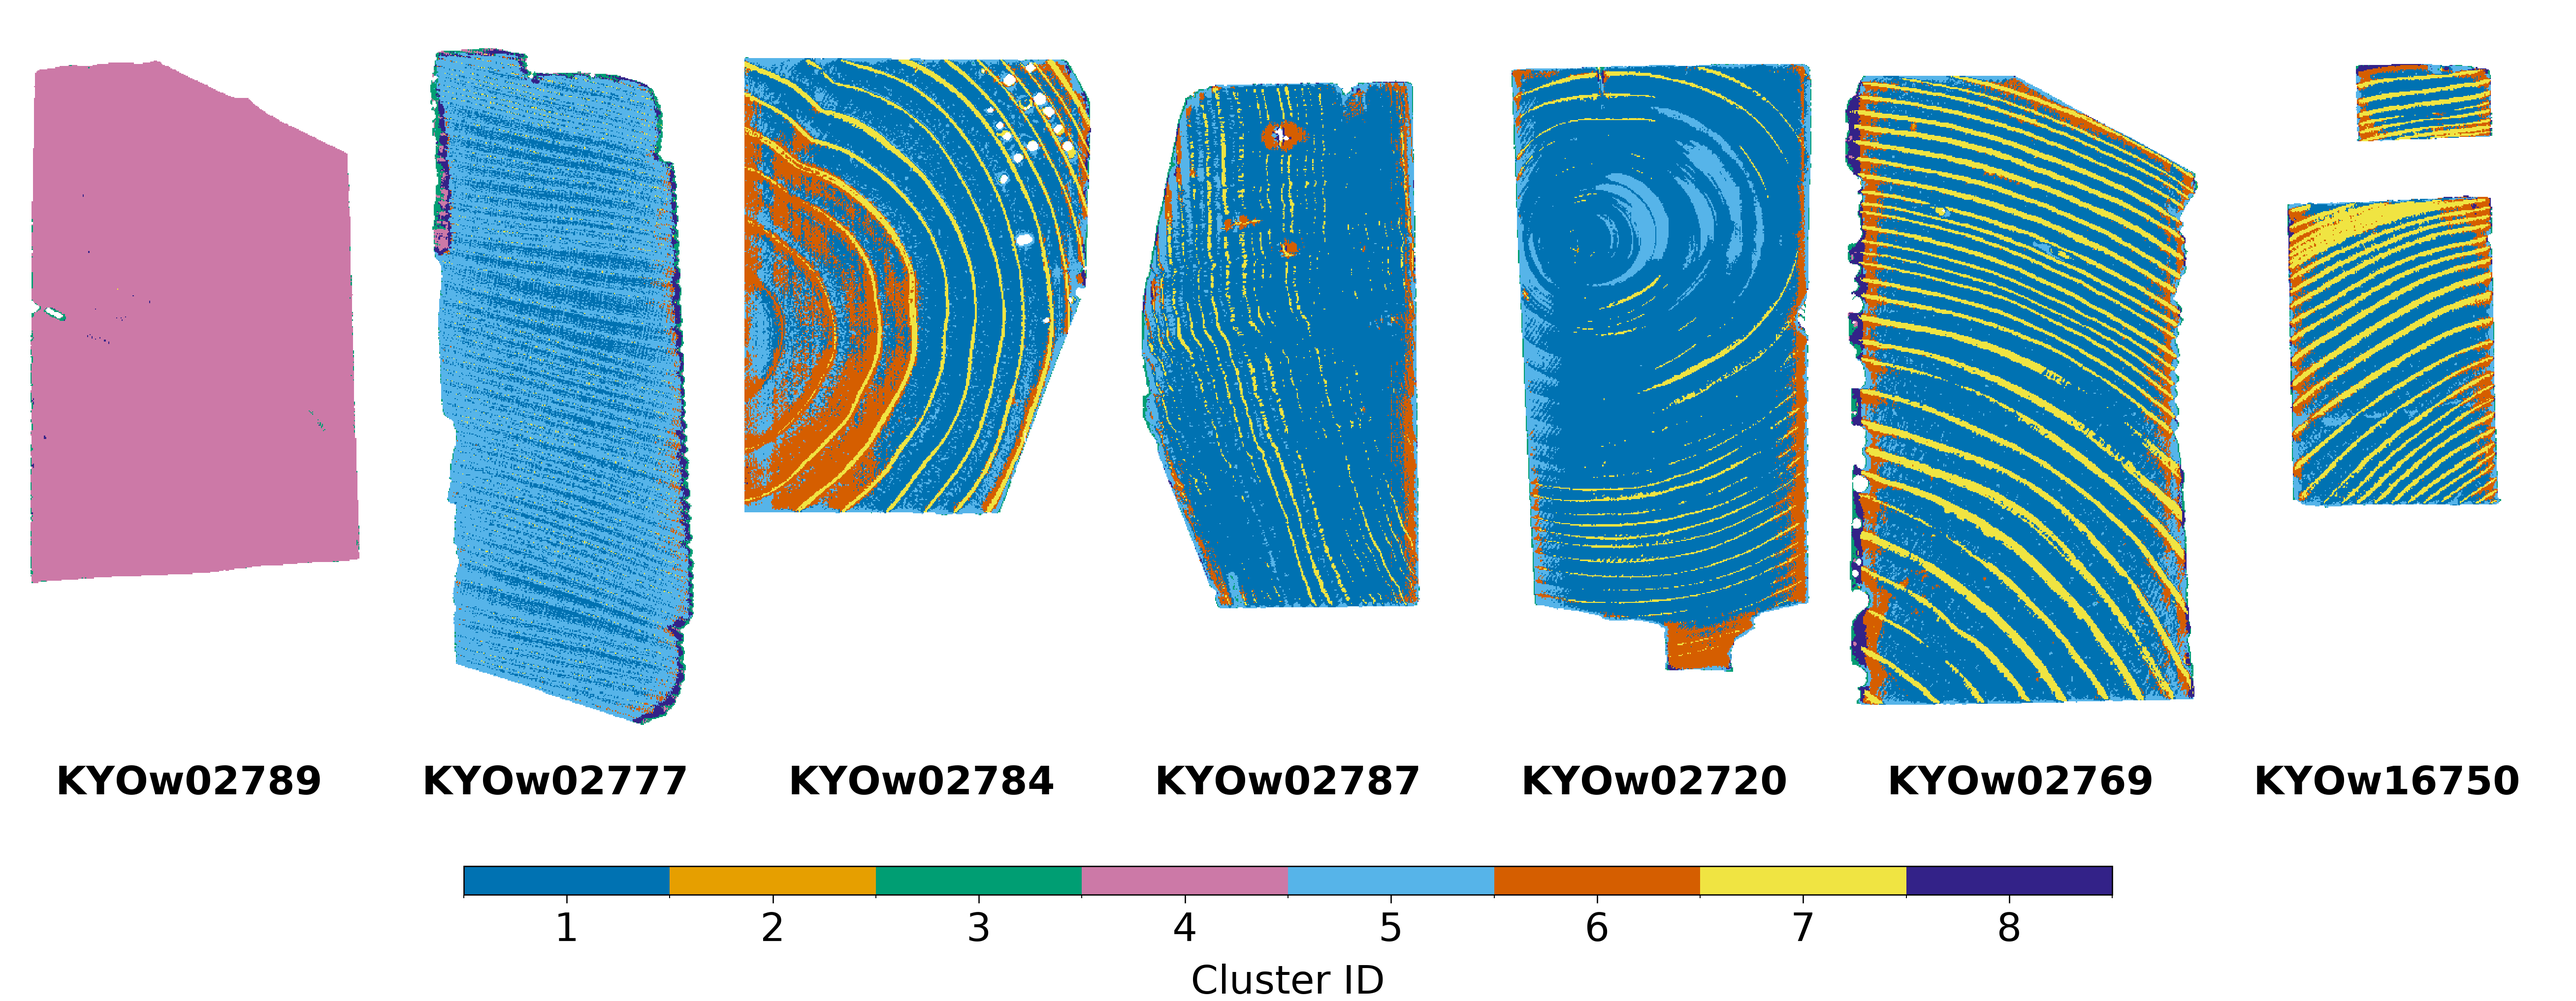
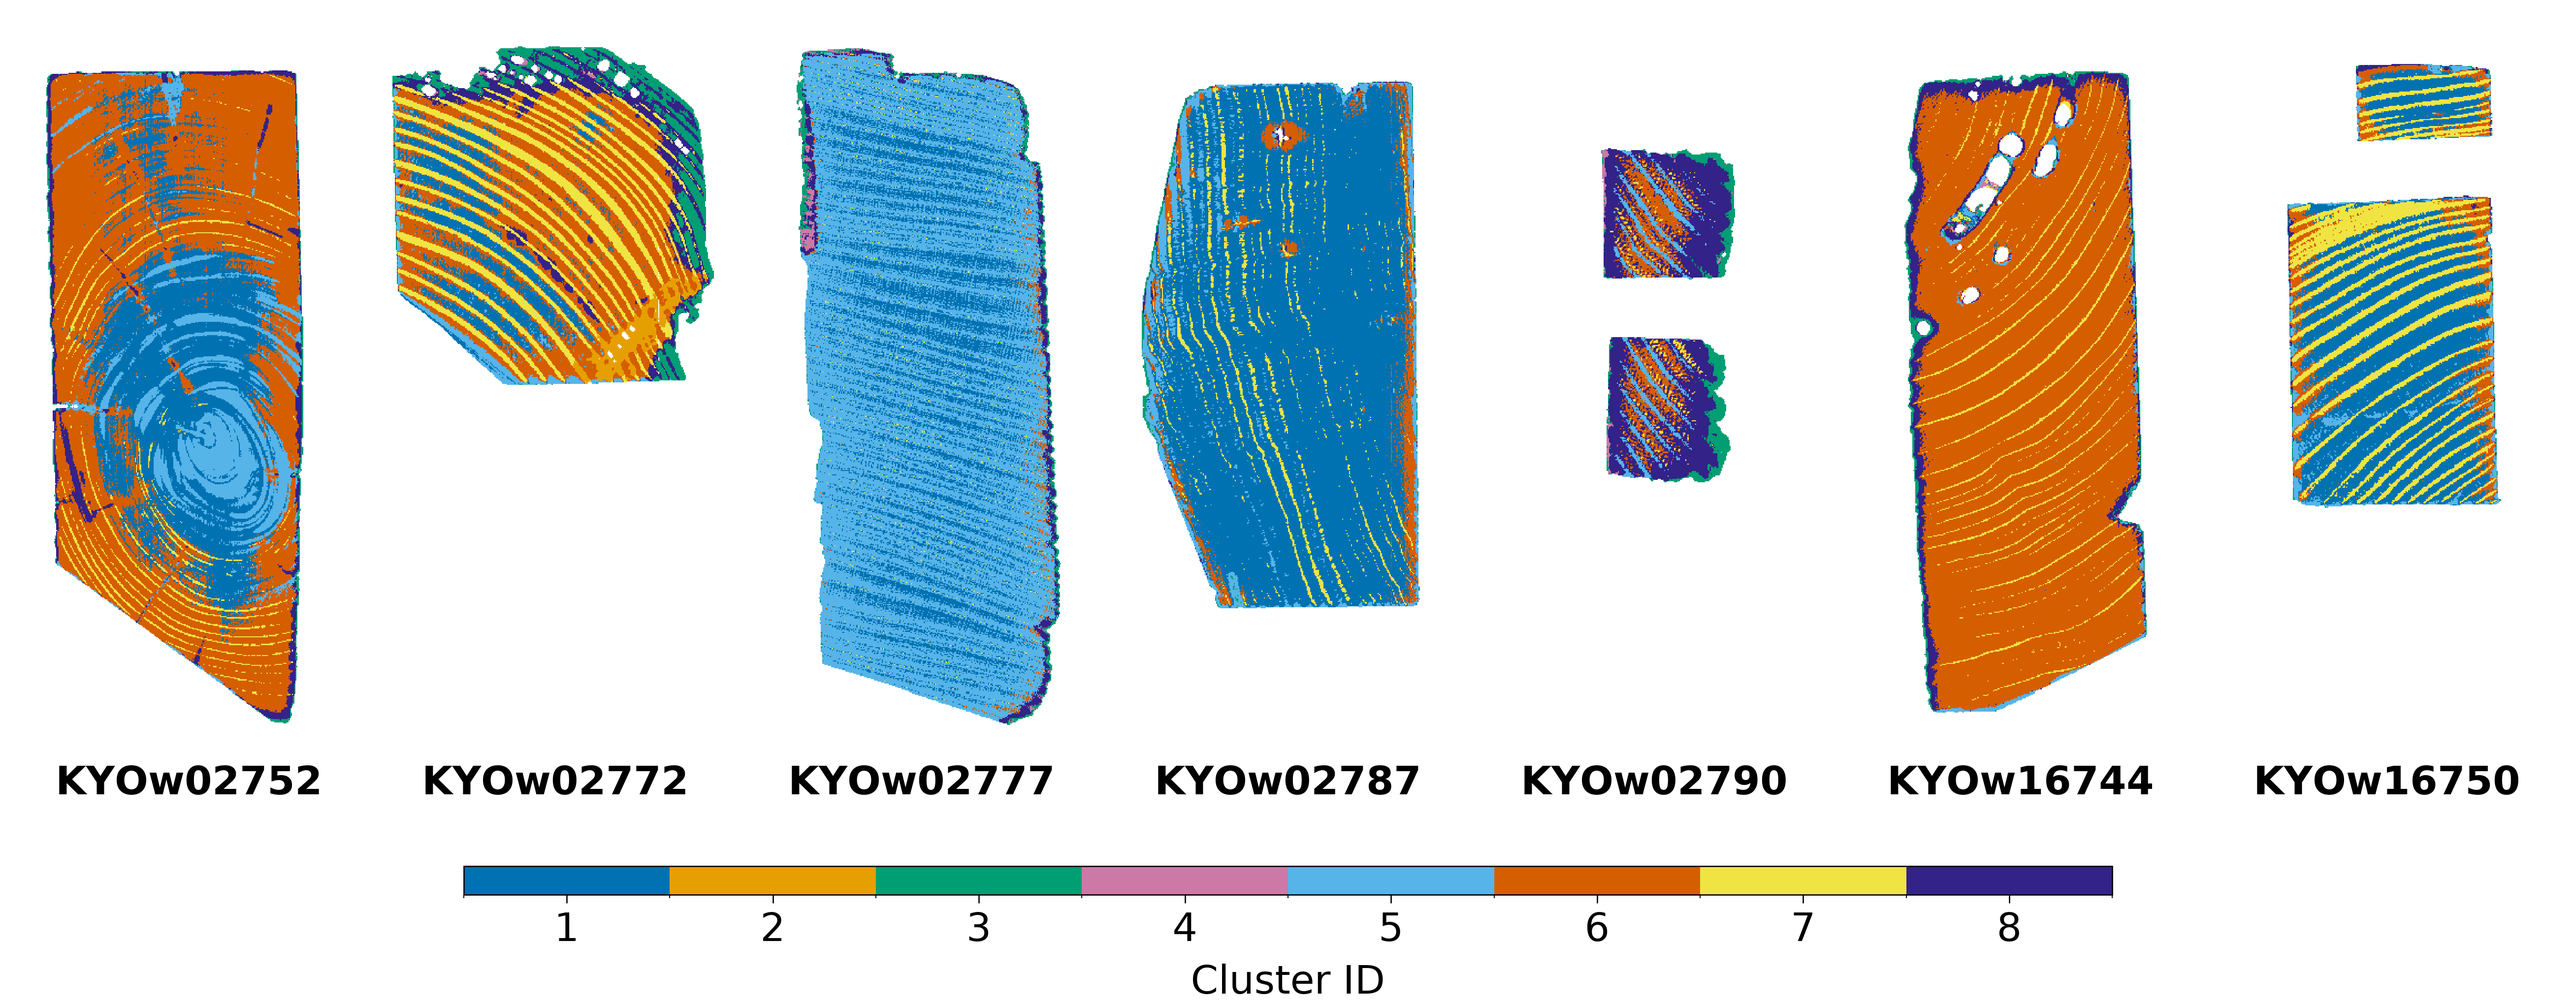
Change in Representative Sample

diff --git a/scripts/preprocess/create_sample_overviews.py b/scripts/preprocess/create_sample_overviews.py
@@ -49,7 +49,15 @@ def parse_args() -> argparse.Namespace:
     parser.add_argument(
         "--output-dir", type=Path,
         default=root / "outputs/sample_overviews",
-        help="New directory for the four overview PNGs; must not already exist.",
+        help="Overview PNG directory; must be new unless --overwrite is supplied.",
+    )
+    parser.add_argument(
+        "--representatives-only", action="store_true",
+        help="Render only the two representative 1x7 PNGs, leaving all-sample grids untouched.",
+    )
+    parser.add_argument(
+        "--overwrite", action="store_true",
+        help="Allow an existing output directory and replace the selected overview PNGs.",
     )
     return parser.parse_args()
 
@@ -123,7 +131,7 @@ def paste_colorbar(canvas: Image.Image, scale: ReflectanceScale) -> None:
 
 def render_overview(
     sources: dict[str, Path], output: Path, *, sample_ids: list[str], image_height: int,
-    reflectance_scale: ReflectanceScale | None = None,
+    reflectance_scale: ReflectanceScale | None = None, overwrite: bool = False,
 ) -> None:
     """Lay out full source images in the supplied order with large IDs underneath."""
     if len(sample_ids) not in (GRID_SIZE, GRID_SIZE**2) or len(set(sample_ids)) != len(sample_ids):
@@ -163,15 +171,15 @@ def render_overview(
             )
         if reflectance_scale is not None:
             paste_colorbar(canvas, reflectance_scale)
-        # Exclusive creation prevents accidental replacement of an existing artifact.
-        with output.open("xb") as handle:
+        # Existing artifacts are replaced only when explicitly requested.
+        with output.open("wb" if overwrite else "xb") as handle:
             canvas.save(handle, format="PNG", dpi=(DPI, DPI))
     print(f"{output}: {size[0]} x {size[1]} pixels; {len(sample_ids)} samples", flush=True)
 
 
 def main() -> int:
     args = parse_args()
-    if args.output_dir.exists():
+    if args.output_dir.exists() and not args.overwrite:
         raise FileExistsError(f"Output directory already exists: {args.output_dir}")
     reflectance, raw = paired_sources(args.reflectance_dir, args.raw_dir)
     scale = load_reflectance_scale(args.reflectance_dir)
@@ -180,17 +188,19 @@ def main() -> int:
     if missing:
         raise ValueError(f"Missing fixed representative samples: {sorted(missing)}")
     height = image_box_height((reflectance, raw))
-    args.output_dir.mkdir(parents=True, exist_ok=False)
-    for suffix, sample_ids in (
-        ("7x7", sorted(reflectance)), ("representatives_1x7", representatives),
-    ):
+    args.output_dir.mkdir(parents=True, exist_ok=args.overwrite)
+    selections = [("representatives_1x7", representatives)]
+    if not args.representatives_only:
+        selections.insert(0, ("7x7", sorted(reflectance)))
+    for suffix, sample_ids in selections:
         render_overview(
             reflectance, args.output_dir / f"reflectance_l2_norm_{suffix}.png",
             sample_ids=sample_ids, image_height=height, reflectance_scale=scale,
+            overwrite=args.overwrite,
         )
         render_overview(
             raw, args.output_dir / f"raw_bmp_{suffix}.png",
-            sample_ids=sample_ids, image_height=height,
+            sample_ids=sample_ids, image_height=height, overwrite=args.overwrite,
         )
     return 0
 

diff --git a/src/wood_degradation_map/experiments/oof_sanity.py b/src/wood_degradation_map/experiments/oof_sanity.py
@@ -21,9 +21,10 @@ from .manifests import _digest, _read_json
 CONDITIONS = ("B0", "B1")
 DISPLAY_K = 8
 DISPLAY_REPEAT = 1
+# Visually selected by the user on 2026-09-21; ascending sample number.
 REPRESENTATIVES = (
-    ("クリ", "KYOw02789"), ("ケヤキ", "KYOw02777"), ("スギ", "KYOw02784"),
-    ("ツガ", "KYOw02787"), ("ヒノキ", "KYOw02720"), ("マツ", "KYOw02769"),
+    ("ヒノキ", "KYOw02752"), ("マツ", "KYOw02772"), ("ケヤキ", "KYOw02777"),
+    ("ツガ", "KYOw02787"), ("クリ", "KYOw02790"), ("スギ", "KYOw16744"),
     ("モミ", "KYOw16750"),
 )
 LABEL_COLORS = (

diff --git a/docs/design/visualization_and_interpretation.md b/docs/design/visualization_and_interpretation.md
@@ -290,27 +290,33 @@ SGを適用する対象は疑似吸光度の二次微分とし、反射率・SNV
 
 全49試料について、Cosine-KMeansの5条件のマップを保存する。
 良好に見える例だけを研究全体の根拠にしない。
-本文用の代表例は、結果を見る前に選択基準と試料IDを固定する。結果を見て追加した特徴例や
-失敗例は、そのように明記する。探索的な例の追加で主条件、K、seedまたは評価対象を入れ替えない。
+代表例の選択基準・試料ID・変更時点を記録し、結果を見て選んだ特徴例や失敗例は、そのように明記する。
+探索的な例の変更で主条件、K、seedまたは評価対象を入れ替えない。
 
-各樹種で保存有効画素数が最大の試料を本文代表例とし、次の7試料を使用する。
-選択対象は`production_v1`の採用49試料に限定する。樹種は`data/metadata/古材メタデータ.csv`の
-`樹種名`をそのまま使用し、「大きい」は前処理後の保存有効画素数（`saved_pixel_count`）で扱う。
-各樹種内でこの画素数が最大の1試料を選ぶ。raw画像の高さ・面積、metadataの部材寸法、
-クラスタリング結果・評価値による選択ではない。対象49試料には同率最大・樹種欠損・IDの重複対応はない。
+2026-09-21にユーザー指定で代表7試料を変更した。従来は各樹種で保存有効画素数が最大の試料を
+選んでいたが、現在は各樹種から多様な化学状態が見られそうなものをユーザーが目視で選択した。
+この選択は結果確認後の探索的な表示例であり、化学状態の多様性を検証済みという意味ではない。
+選択対象は`production_v1`の採用49試料に限定し、次の7試料を**試料番号の昇順**で使用する。
+樹種は`data/metadata/古材メタデータ.csv`の`樹種名`に対応する。保存有効画素数は参考値として示す。
 
 | 樹種名 | 採用試料内の件数 | 本文代表試料 | 保存有効画素数 |
 | --- | ---: | --- | ---: |
-| クリ | 3 | KYOw02789 | 125,946 |
+| ヒノキ | 14 | KYOw02752 | 117,193 |
+| マツ | 23 | KYOw02772 | 73,211 |
 | ケヤキ | 4 | KYOw02777 | 121,687 |
-| スギ | 3 | KYOw02784 | 117,549 |
 | ツガ | 1 | KYOw02787 | 106,684 |
-| ヒノキ | 14 | KYOw02720 | 131,174 |
-| マツ | 23 | KYOw02769 | 161,734 |
+| クリ | 3 | KYOw02790 | 26,249 |
+| スギ | 3 | KYOw16744 | 108,863 |
 | モミ | 1 | KYOw16750 | 58,739 |
 
+旧指定からはヒノキ`KYOw02720 → KYOw02752`、マツ`KYOw02769 → KYOw02772`、
+クリ`KYOw02789 → KYOw02790`、スギ`KYOw02784 → KYOw16744`を変更し、残る3試料は継続した。
+列順も従来の樹種順から上表の試料番号順へ変更した。
+raw BMP・反射率L2 normの代表1×7、全体fitの条件別代表1×7と5条件×7試料図は同じ指定を共有する。
+OOF sanityも共通定義を参照するため、次回生成からこの試料・順序を使用する。
+
 画素数の出典は`outputs/experiments/preflight_v1/manifests/inputs.json`。
-選択時のSHA-256は次のとおり。
+旧選択時に記録したSHA-256は次のとおり（今回再計算した値ではない）。
 
[2 lines of base64/hex data omitted]

diff --git a/docs/experiment_runbook.md b/docs/experiment_runbook.md
@@ -532,6 +532,43 @@ if ($LASTEXITCODE -ne 0) { throw "Global visualization check failed" }
 独立管理の`pca-latent-2d/`は引き継ぎ、PCA座標・NN・クラスタリング成果物は置換対象に含めない。
 クラスタリングの`run`は既存成果物を上書きしない。
 
+<a id="representative-sample-update"></a>
+
+##### 代表7試料の変更を既存図へ反映する
+
+2026-09-21に代表試料を、各樹種で多様な化学状態が見られそうなものを目視で選んだ7試料へ変更した。
+試料番号順に`KYOw02752`（ヒノキ）、`KYOw02772`（マツ）、`KYOw02777`（ケヤキ）、
+`KYOw02787`（ツガ）、`KYOw02790`（クリ）、`KYOw16744`（スギ）、`KYOw16750`（モミ）とする。
+旧指定との差分と選定の位置づけは[表示例の選択](design/visualization_and_interpretation.md#representative-samples)を参照。
+コード・文書の更新だけでは保存済みPNGは変わらないため、以下をリポジトリrootのPowerShellで実行する。
+
+raw BMPと反射率L2 normの代表1×7は、保存済み画像をCPUで読み、次の1コマンドで両方を同名上書きする。
+既存の全49試料の7×7図は変更しない。前処理・スペクトル計算は行わない。
+
+```powershell
+uv run --no-sync python scripts/preprocess/create_sample_overviews.py --representatives-only --overwrite
+if ($LASTEXITCODE -ne 0) { throw "Representative sample overviews failed" }
+```
+
+対象は`outputs/sample_overviews/raw_bmp_representatives_1x7.png`と
+`outputs/sample_overviews/reflectance_l2_norm_representatives_1x7.png`。
+
+全体fitの条件別代表1×7と5条件×7試料図は、次の1コマンドで同時に更新する。
+既存の全49試料のラベル・観測スペクトルをCPUで読み、図表一式（PNG 56枚・CSV 37個と関連記録）を
+再生成して同じ`results/figures/global_k8_v1/`へ置き換えるため、代表図2枚の合成より処理量が多い。
+学習・クラスタリングは再実行せず、独立した`pca-latent-2d/`は保持する。
+
+```powershell
+uv run --no-sync python scripts/experiments/visualize_global.py run
+if ($LASTEXITCODE -ne 0) { throw "Global representative visualization failed" }
+```
+
+対象の代表図は`{B0,B1,A0,M00,M11}/labels/07_representative_samples_1x7.png`と
+rootの`01_representative_samples_5x7.png`。`report.json`の`representative_sample_ids`と
+`captions.csv`も新しい7試料・並び順へ更新される。既存図の検証だけを行う`--resume`は付けない。
+終了code 0、図中のIDと列順、`report.json`の代表ID、実行末尾の`checks_passed=true`を確認する。
+既存のOOF sanity図はこの2コマンドの更新対象に含まれない。
+
 ##### 保存物と確認点
 
 以下はすべて`outputs/experiments/global_v1/`からの相対path。

diff --git a/docs/manuscript_handoff.md b/docs/manuscript_handoff.md
@@ -33,6 +33,10 @@
 - OOF sanityのfold内B0基準・画素一致数による整列と、全体fitのM00基準・試料等重みSNV代表線のcosine類似度による整列を区別する。
 - `outputs/`の元成果物を保持し、原稿での体裁調整と解析結果を区別する。Fixedの仕様を実装・解析済みとは扱わない。
 
+2026-09-21に代表7試料を、各樹種から多様な化学状態が見られそうなものを目視で選んだ試料へ変更し、
+列順を試料番号の昇順にした。[選定記録](design/visualization_and_interpretation.md#representative-samples)と
+[上書き生成手順](experiment_runbook.md#representative-sample-update)を参照し、使用するPNGに新指定が反映されていることを確認する。
+
 ### 図表候補と用途
 
 | 資料 | 出典と注意点 |
